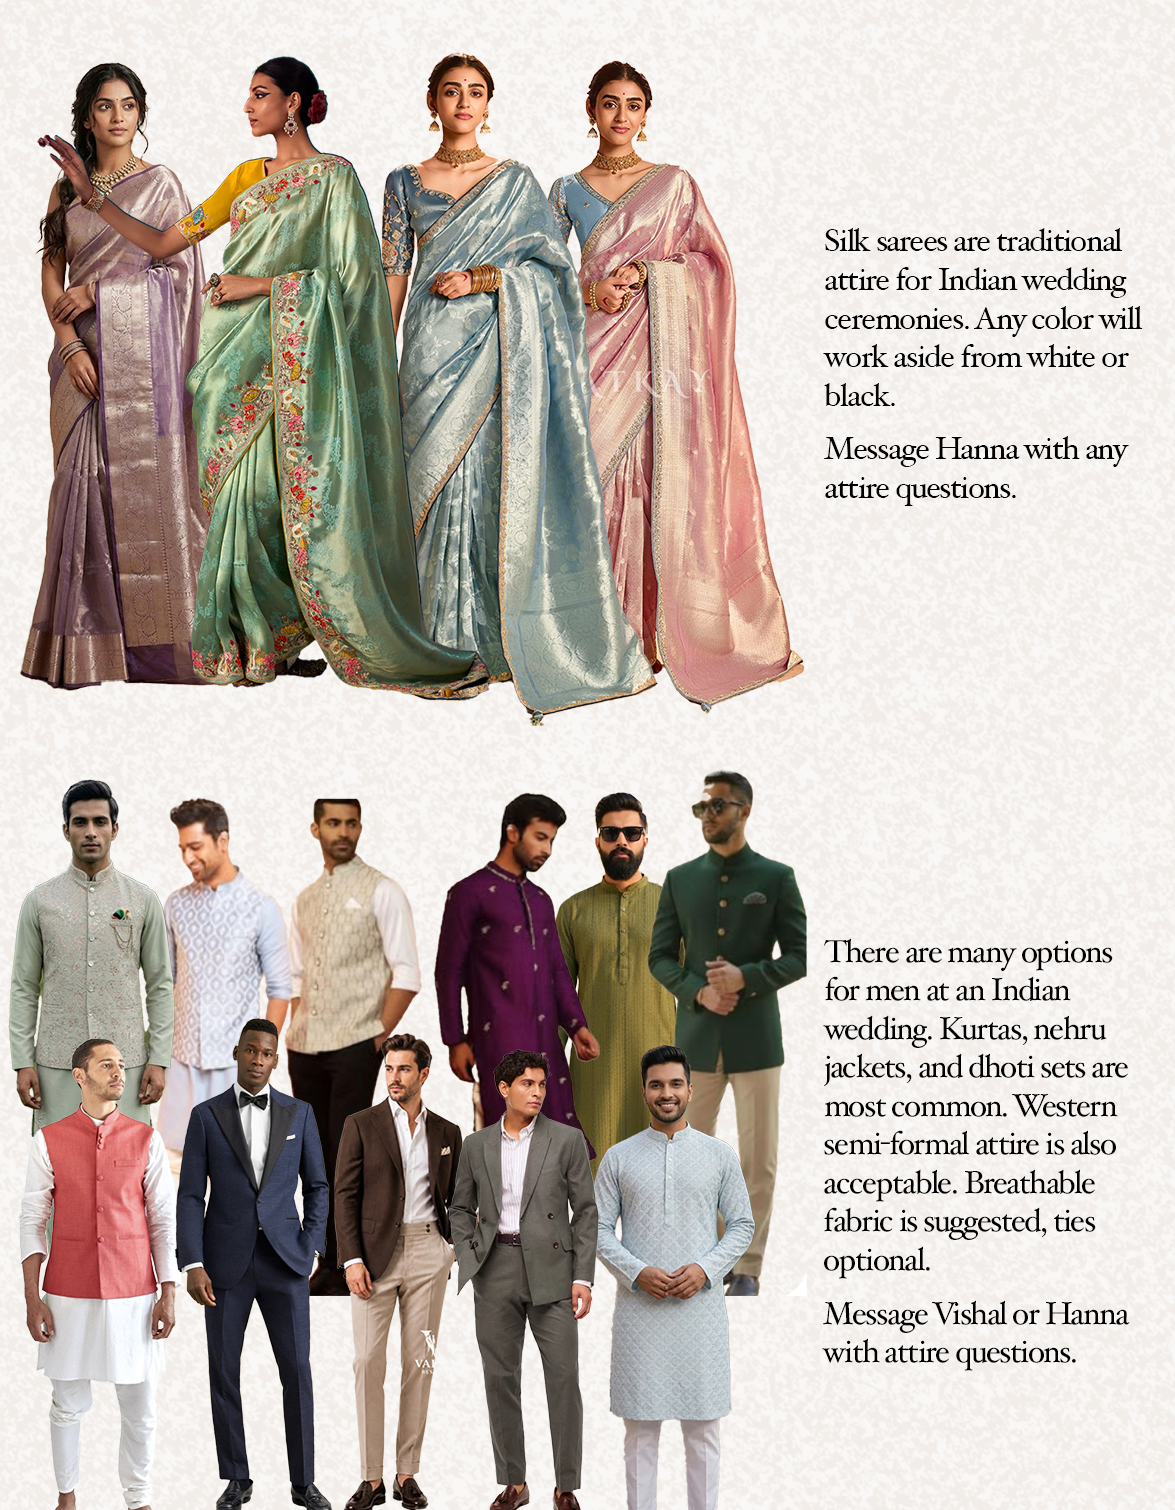
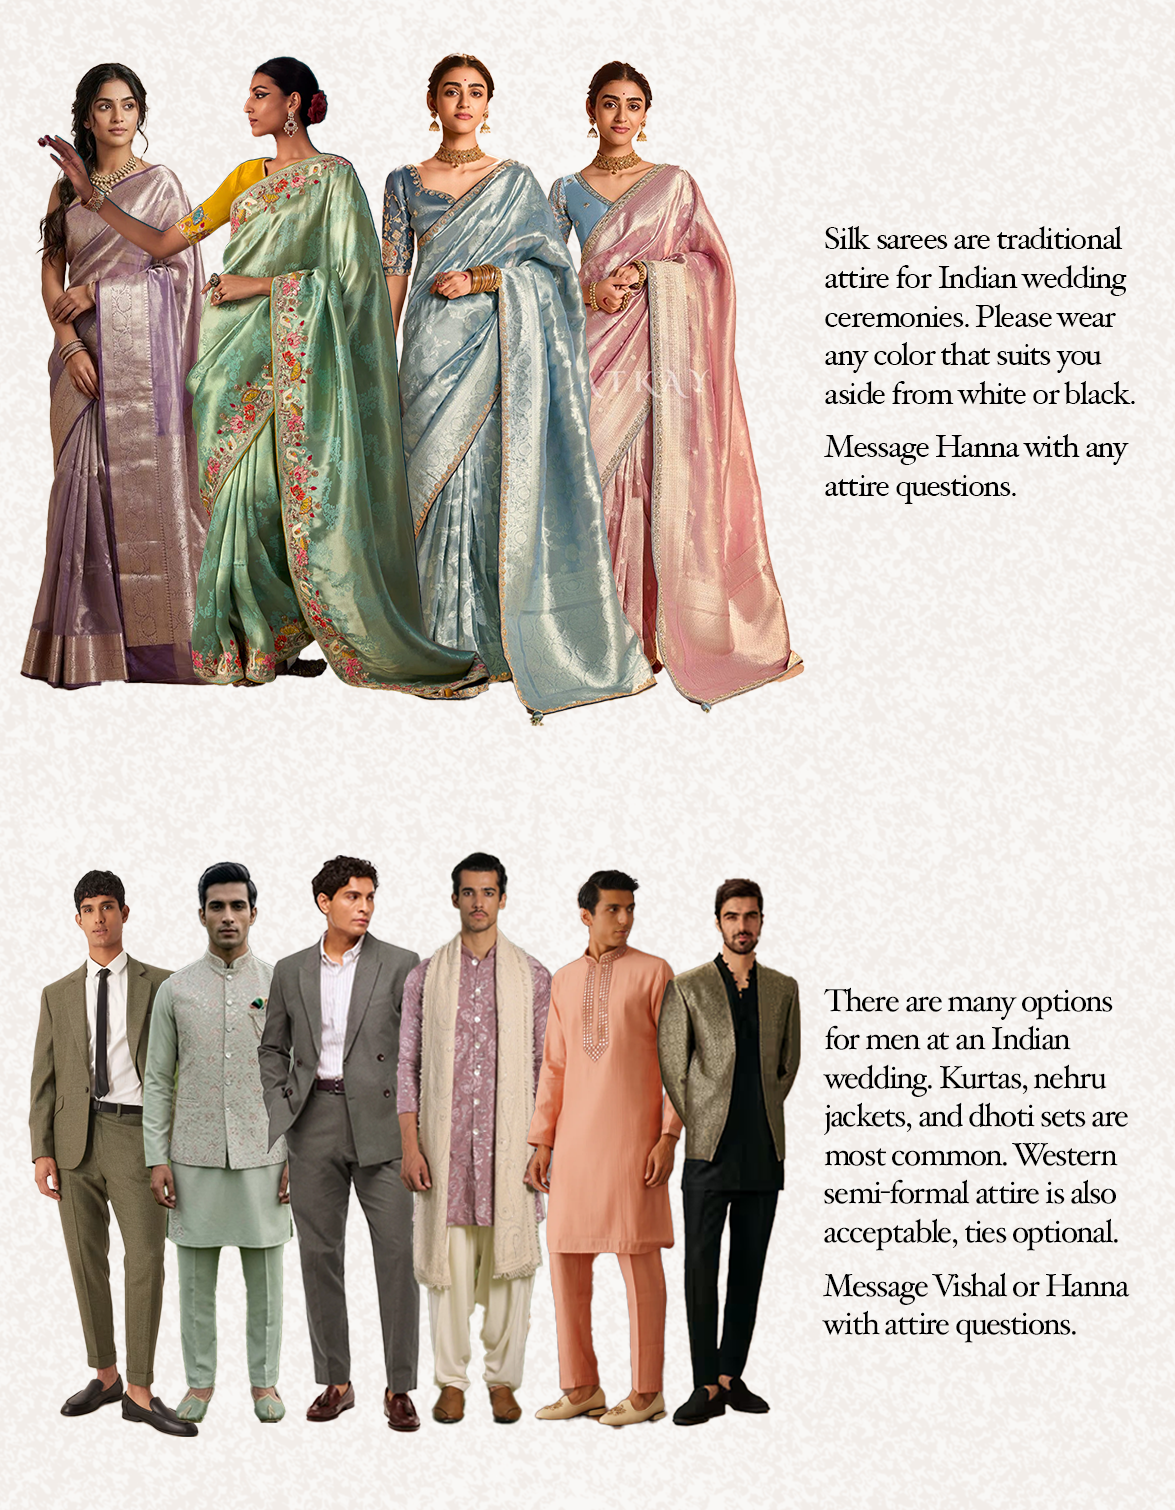
attire updates / wording

Changed region(s): [[0.0, 0.498, 0.9498, 1.0], [0.7047, 0.1556, 0.9804, 0.3424]]

diff --git a/app/schedule/page.tsx b/app/schedule/page.tsx
@@ -86,7 +86,7 @@ const evening: PanelData = {
             time: "7 PM",
             location: "Ballroom",
             description:
-                "Dance and dine with us! Please join us for dinner, speeches, and special performances as we honor the newlyweds and wrap up the evening with a memorable send-off for Vishal and Hanna-Mae.",
+                "Dance and dine with us! Please join us for performances, speeches, dinner, and a send-off for the bride and groom.",
             lookbookUrl: "/images/western_ceremony_lookbook.png",
             lookbookLabel: "Evening Attire",
             mobileIllustration: {
